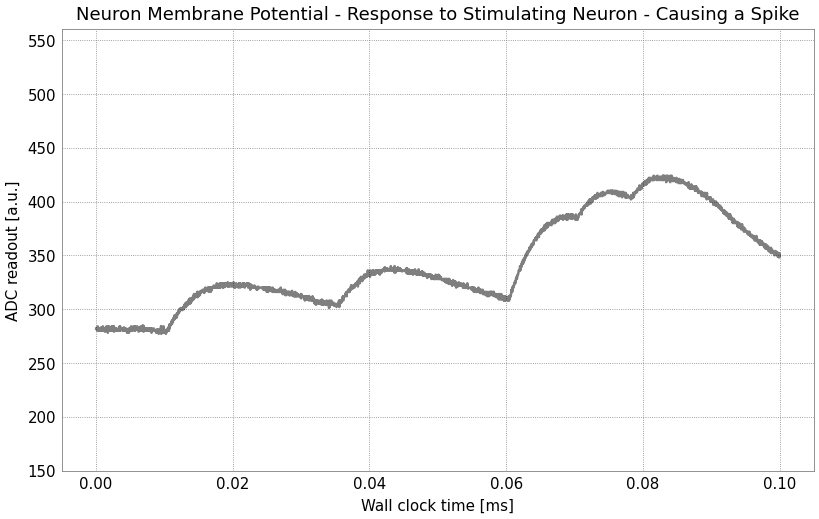
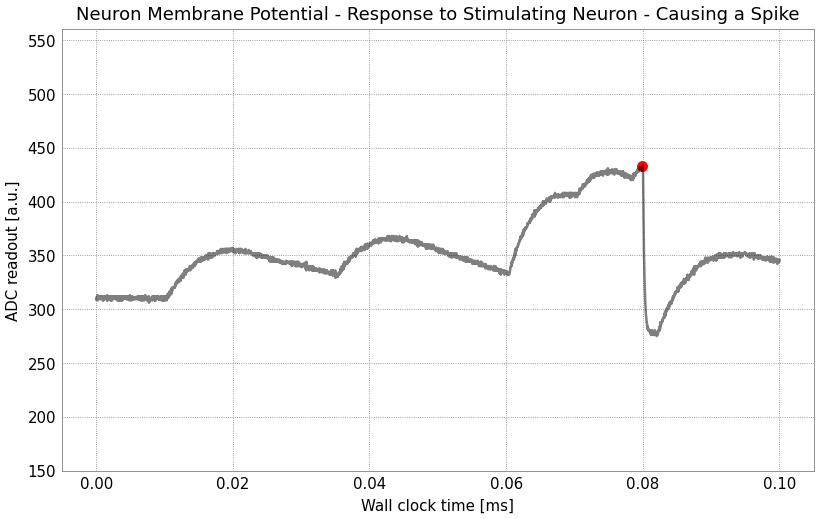
started psp stacking, added introduction psp graph, corrected recreated psp graph

diff --git a/F09 Neuromorphic Computing/Lab Report/Experiments/02_single_neuron.tex b/F09 Neuromorphic Computing/Lab Report/Experiments/02_single_neuron.tex
@@ -55,14 +55,21 @@ The relationship seems to be somewhat linear, but more examination might be requ
 
 \subsection{Synaptic Stimuli and PSP Stacking}
 
-
-% add original PSP stacking plot from introduction?
-
+Next we will explore the phenomenon of PSP stacking in a single neuron. This is when multiple successive spikes of other neurons cause a spike in the neuron under observation. An example is given in \autoref{fig:PSP_stacking_example}.
 
 \begin{figure}[htbp]
     \centering
-    \includegraphics[width=0.7\textwidth]{./Single_Neuron/Graphs/fp_task1_PSP_stacking.png}
-    \caption{Recreated PSP Stacking to Cause a Neuron Spike}
+    \includegraphics[width=0.7\textwidth]{./02_Single_Neuron/Graphs/fp_introduction_PSP_stacking.png}
+    \caption{Example of PSP Stacking Causing a Neuron to Spike}
+    \label{fig:PSP_stacking_example}
+\end{figure}
+
+We tried to reproduce this graph by setting up a spiking neuron population and setting the spike pattern in order to cause our neuron to spike. The general shape was matched quite well. It is given in \autoref{fig:PSP_stacking_recreated}.
+
+\begin{figure}[htbp]
+    \centering
+    \includegraphics[width=0.7\textwidth]{./02_Single_Neuron/Graphs/fp_task1_PSP_stacking.png}
+    \caption{Recreated PSP Stacking to Cause a Neuron to Spike}
     \label{fig:PSP_stacking_recreated}
 \end{figure}
 
